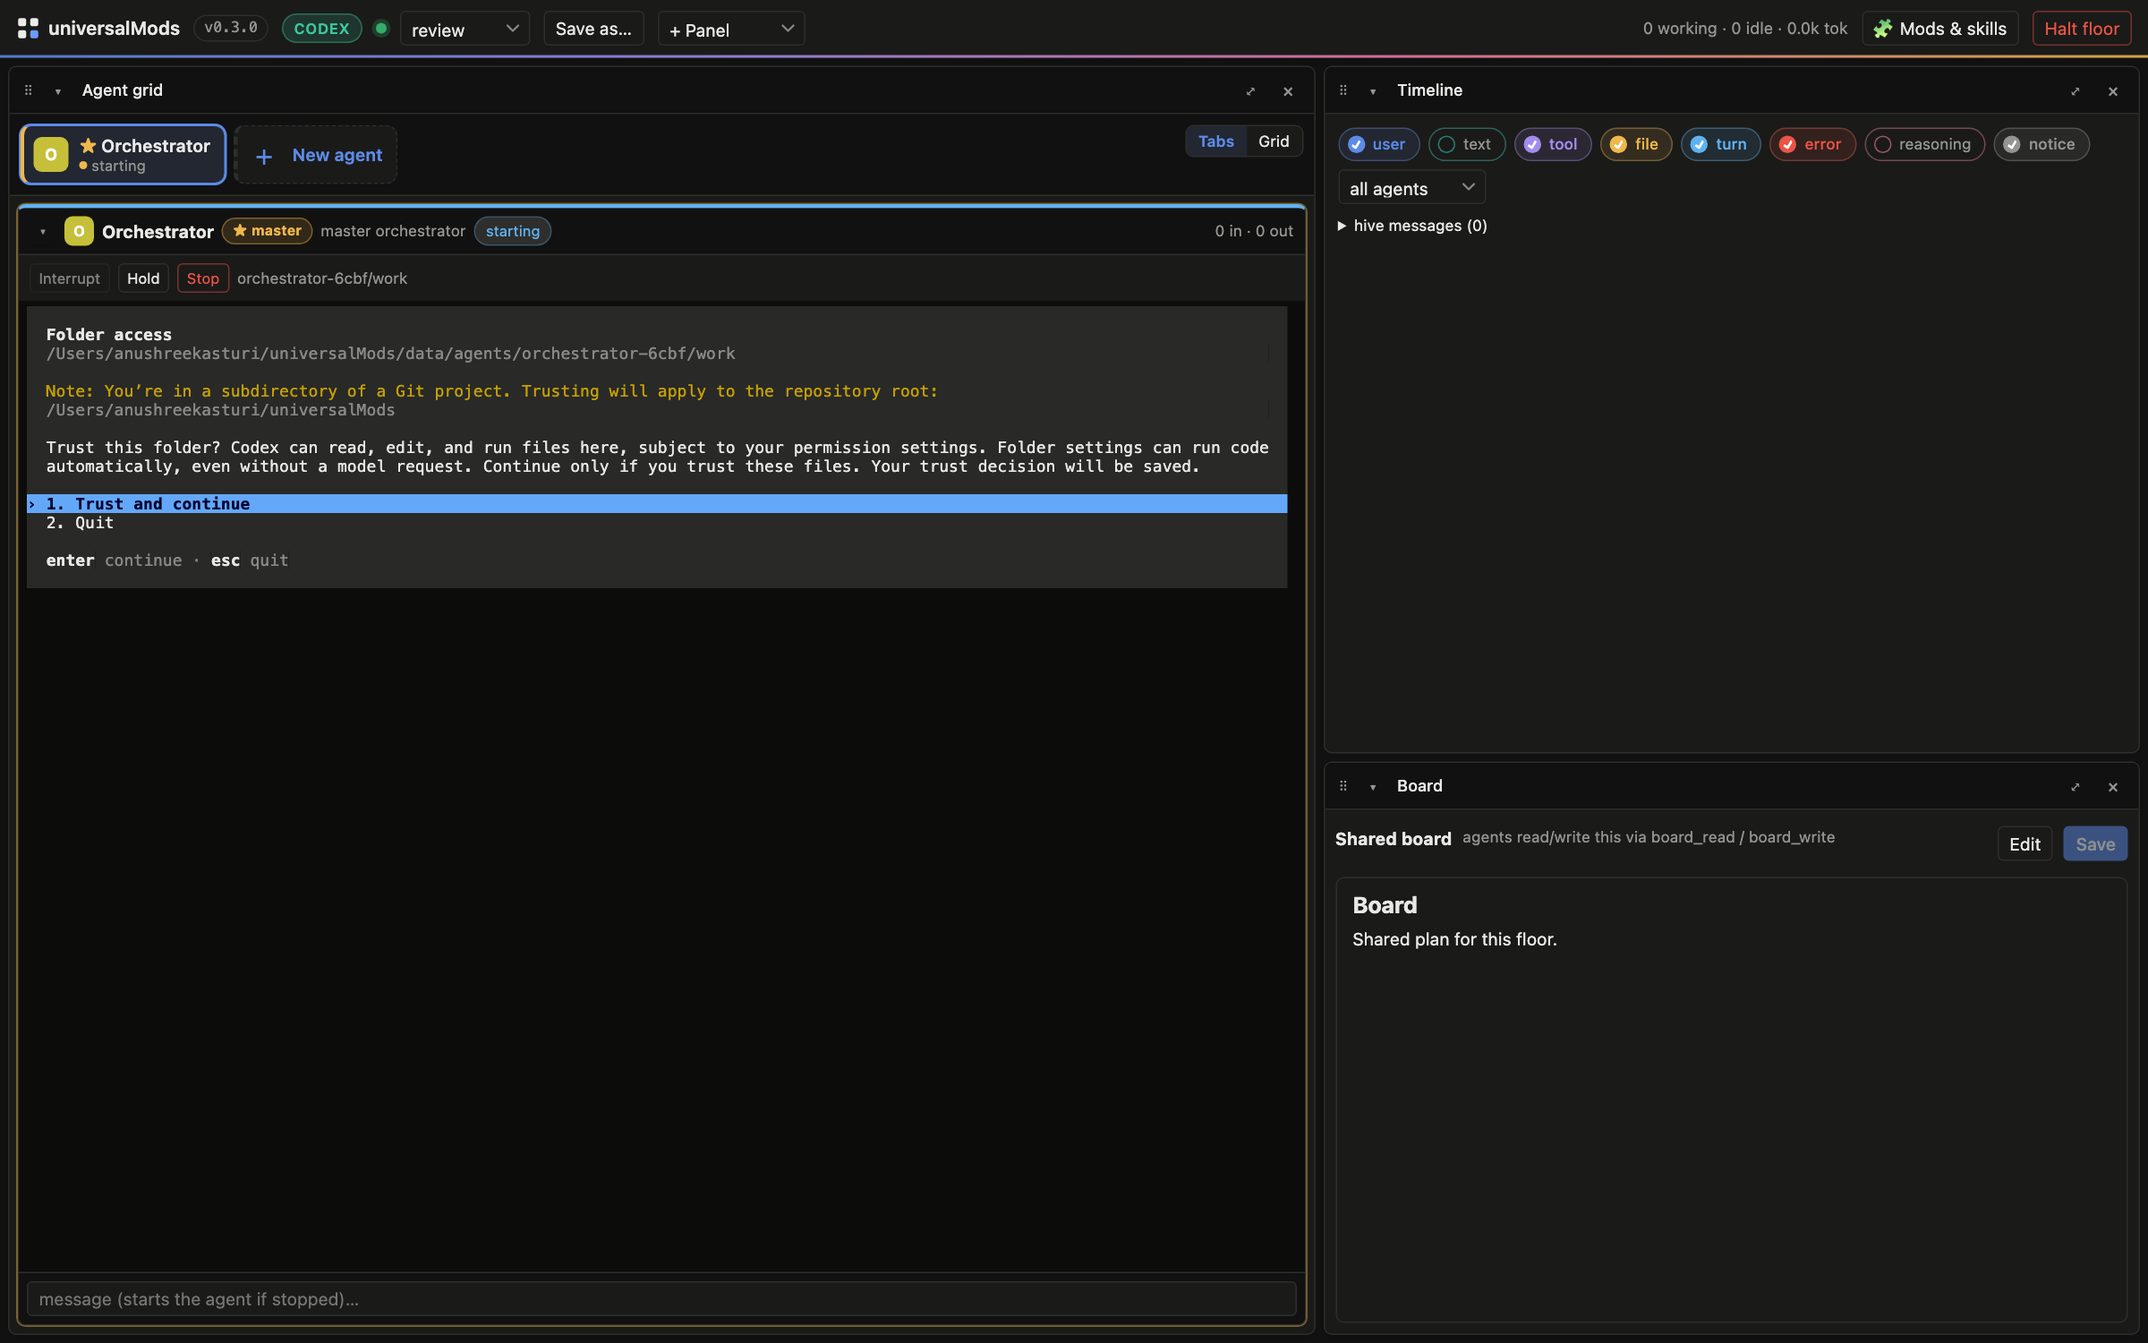
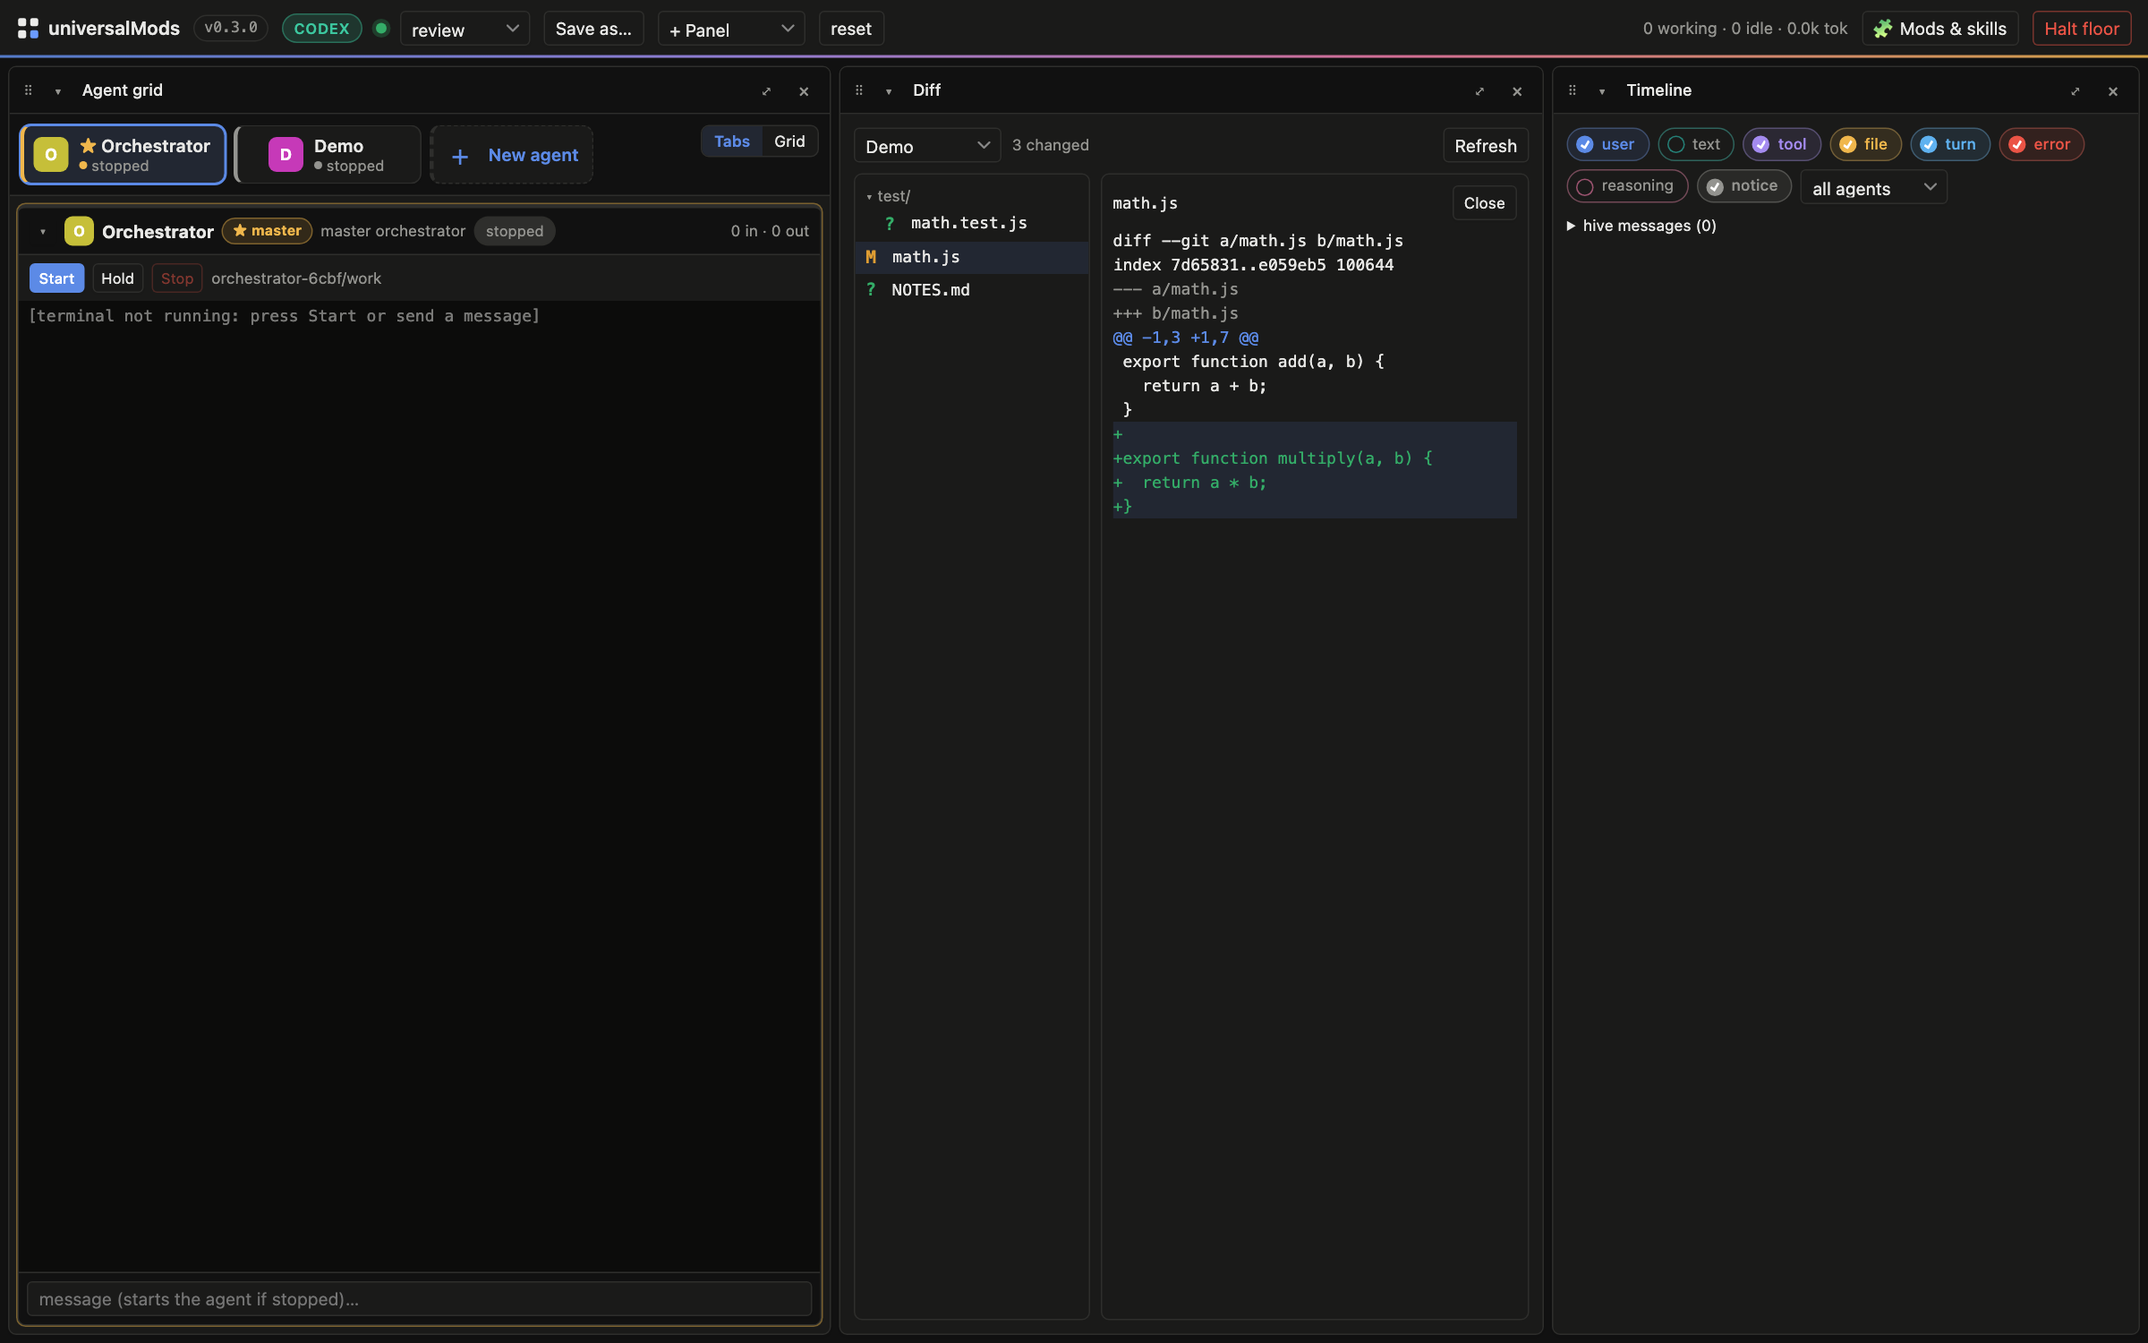
Add Diff mod and make it the core of the review layout
The review preset now shows the agent terminal, a Diff view and the
timeline, so it helps with reviewing changes rather than only
rearranging views.

mods/diff:
- Changed-files tree (git status, A/M/D/? badges) for the selected
  agent's folder, scoped to that folder.
- Click a file to see its unified git diff (new files diff against
  /dev/null). Paths outside the agent folder are rejected.
- Refreshes when the agent changes files or finishes a turn.
- review_request agent tool: the agent asks for review, the view shows
  the request and switches to that agent.

Also: screenshot retaken with an agent's changes visible and no local
home path on screen; CHANGELOG updated.

diff --git a/mods/diff/client.tsx b/mods/diff/client.tsx
@@ -1,0 +1,222 @@
+// Diff view: an agent's changed files as a tree, with the unified diff of a clicked file.
+// The server pushes a fresh tree whenever the agent changes files; "review" is pushed when an agent asks for review.
+import { useEffect, useState } from 'react';
+import { floor, registerView, useFloor, useModChannel, type ViewProps } from 'universal-mods';
+
+interface Change {
+  path: string;
+  status: 'A' | 'M' | 'D' | 'R' | '?';
+}
+interface Tree {
+  agentId: string;
+  cwd: string;
+  files: Change[];
+  error?: string;
+  at: number;
+}
+interface ReviewRequest {
+  agentId: string;
+  message: string;
+  at: number;
+}
+interface FileDiff {
+  path: string;
+  diff: string;
+}
+
+const press = <T,>(key: string, payload: unknown) => floor.press('diff', key, payload) as Promise<T>;
+const BADGE: Record<Change['status'], string> = { A: 'var(--ok)', '?': 'var(--ok)', M: 'var(--warn)', D: 'var(--bad)', R: 'var(--accent)' };
+
+/** Nested folders for the changed files, so the tree reads like the repo. */
+interface Dir {
+  dirs: Map<string, Dir>;
+  files: Change[];
+}
+function toTree(files: Change[]): Dir {
+  const root: Dir = { dirs: new Map(), files: [] };
+  for (const f of files) {
+    const parts = f.path.split('/');
+    let node = root;
+    for (const part of parts.slice(0, -1)) {
+      if (!node.dirs.has(part)) node.dirs.set(part, { dirs: new Map(), files: [] });
+      node = node.dirs.get(part)!;
+    }
+    node.files.push(f);
+  }
+  return root;
+}
+
+function TreeNode({ dir, depth, onOpen, active }: { dir: Dir; depth: number; onOpen: (p: string) => void; active?: string }) {
+  return (
+    <>
+      {[...dir.dirs].map(([name, child]) => (
+        <div key={`d:${name}`}>
+          <div className="small muted" style={{ paddingLeft: depth * 14 + 8, paddingTop: 4 }}>
+            ▾ {name}/
+          </div>
+          <TreeNode dir={child} depth={depth + 1} onOpen={onOpen} active={active} />
+        </div>
+      ))}
+      {dir.files.map((f) => (
+        <div
+          key={f.path}
+          onClick={() => onOpen(f.path)}
+          style={{
+            paddingLeft: depth * 14 + 8,
+            paddingTop: 3,
+            paddingBottom: 3,
+            cursor: 'pointer',
+            display: 'flex',
+            gap: 8,
+            alignItems: 'center',
+            background: active === f.path ? 'var(--accent-soft)' : undefined,
+          }}
+        >
+          <span style={{ color: BADGE[f.status], fontFamily: 'var(--mono)', fontWeight: 600, width: 12 }}>{f.status}</span>
+          <span style={{ fontFamily: 'var(--mono)', fontSize: 12, overflow: 'hidden', textOverflow: 'ellipsis', whiteSpace: 'nowrap' }}>
+            {f.path.split('/').pop()}
+          </span>
+        </div>
+      ))}
+    </>
+  );
+}
+
+function Diff({ text }: { text: string }) {
+  return (
+    <pre style={{ margin: 0, fontFamily: 'var(--mono)', fontSize: 12, lineHeight: 1.5, whiteSpace: 'pre', overflow: 'auto' }}>
+      {text.split('\n').map((line, i) => {
+        const color =
+          line.startsWith('+++') || line.startsWith('---') ? 'var(--muted)' : line.startsWith('+') ? 'var(--ok)' : line.startsWith('-') ? 'var(--bad)' : line.startsWith('@@') ? 'var(--accent)' : undefined;
+        return (
+          <div key={i} style={{ color, background: color === 'var(--ok)' ? 'var(--accent-soft)' : undefined }}>
+            {line || ' '}
+          </div>
+        );
+      })}
+    </pre>
+  );
+}
+
+function DiffView({ params, setParams }: ViewProps) {
+  const agents = useFloor((s) => s.agents).filter((a) => !a.archived);
+  const [agentId, setAgentId] = useState<string>(params.agentId ?? '');
+  // Default to a worker agent: the master orchestrator rarely edits files itself.
+  const selected = agents.find((a) => a.id === agentId) ?? agents.find((a) => !a.master) ?? agents[0];
+  const [tree, setTree] = useState<Tree>();
+  const [open, setOpen] = useState<FileDiff>();
+  const [error, setError] = useState<string>();
+  const [busy, setBusy] = useState(false);
+  const live = useModChannel<Tree>('diff', 'tree');
+  const review = useModChannel<ReviewRequest>('diff', 'review');
+  const [asked, setAsked] = useState<ReviewRequest>();
+
+  const scan = (id: string) => {
+    setBusy(true);
+    press<Tree>('scan', { agentId: id })
+      .then((t) => {
+        if (!Array.isArray(t?.files)) throw new Error('Could not read changes');
+        setTree(t);
+        setError(t.error);
+      })
+      .catch((e) => setError(String(e?.message ?? e)))
+      .finally(() => setBusy(false));
+  };
+
+  // Changing agent: load its changes and close the open file.
+  useEffect(() => {
+    setOpen(undefined);
+    setTree(undefined);
+    if (selected) scan(selected.id);
+  }, [selected?.id]);
+
+  // Live updates from the server for the agent on screen.
+  useEffect(() => {
+    if (live && live.agentId === selected?.id) {
+      setTree(live);
+      setError(live.error);
+    }
+  }, [live]);
+
+  // An agent asked for review: show it and switch to that agent.
+  useEffect(() => {
+    if (!review) return;
+    setAsked(review);
+    setAgentId(review.agentId);
+    setParams({ agentId: review.agentId });
+  }, [review]);
+
+  const choose = (id: string) => {
+    setAgentId(id);
+    setParams({ agentId: id });
+  };
+  const openFile = (path: string) => {
+    if (!selected) return;
+    press<FileDiff>('diff', { agentId: selected.id, path })
+      .then((d) => {
+        if (typeof d?.diff !== 'string') throw new Error(`Could not read ${path}`);
+        setOpen(d);
+      })
+      .catch((e) => setError(String(e?.message ?? e)));
+  };
+
+  const files = tree?.files ?? [];
+  const folder = toTree(files);
+
+  return (
+    <div className="pad" style={{ display: 'flex', flexDirection: 'column', gap: 8, height: '100%', minHeight: 0, boxSizing: 'border-box' }}>
+      <div style={{ display: 'flex', gap: 8, alignItems: 'center' }}>
+        <select value={selected?.id ?? ''} onChange={(e) => choose(e.target.value)} disabled={!agents.length}>
+          {!agents.length && <option value="">no agents</option>}
+          {agents.map((a) => (
+            <option key={a.id} value={a.id}>
+              {a.name}
+            </option>
+          ))}
+        </select>
+        <span className="small muted">{files.length ? `${files.length} changed` : ''}</span>
+        <span className="spacer" />
+        <button onClick={() => selected && scan(selected.id)} disabled={!selected || busy}>
+          {busy ? 'Scanning…' : 'Refresh'}
+        </button>
+      </div>
+
+      {asked && (
+        <div style={{ border: '1px solid var(--accent)', borderRadius: 6, padding: '6px 8px', background: 'var(--accent-soft)' }}>
+          <div className="small">
+            <strong>Review requested</strong> · {agents.find((a) => a.id === asked.agentId)?.name ?? 'an agent'}
+          </div>
+          <div className="small" style={{ whiteSpace: 'pre-wrap' }}>
+            {asked.message}
+          </div>
+          <button className="small" onClick={() => setAsked(undefined)} style={{ marginTop: 4 }}>
+            Dismiss
+          </button>
+        </div>
+      )}
+
+      {error && <div className="small" style={{ color: 'var(--bad)' }}>{error}</div>}
+
+      <div style={{ display: 'grid', gridTemplateColumns: open ? 'minmax(160px, 35%) 1fr' : '1fr', gap: 8, flex: 1, minHeight: 0 }}>
+        <div style={{ overflow: 'auto', border: '1px solid var(--line)', borderRadius: 6, padding: '4px 0' }}>
+          {!files.length && !error && <div className="small muted pad">{selected ? 'No changes yet.' : 'Spawn an agent to see its changes.'}</div>}
+          <TreeNode dir={folder} depth={0} onOpen={openFile} active={open?.path} />
+        </div>
+        {open && (
+          <div style={{ overflow: 'auto', border: '1px solid var(--line)', borderRadius: 6, padding: 8, minWidth: 0 }}>
+            <div style={{ display: 'flex', alignItems: 'center', gap: 8, marginBottom: 6 }}>
+              <span className="small" style={{ fontFamily: 'var(--mono)' }}>{open.path}</span>
+              <span className="spacer" />
+              <button className="small" onClick={() => setOpen(undefined)}>
+                Close
+              </button>
+            </div>
+            {open.diff ? <Diff text={open.diff} /> : <div className="small muted">No diff for this file.</div>}
+          </div>
+        )}
+      </div>
+    </div>
+  );
+}
+
+registerView({ id: 'diff', title: 'Diff', render: (p) => <DiffView {...p} /> });

diff --git a/mods/diff/server.ts b/mods/diff/server.ts
@@ -1,0 +1,128 @@
+// Diff mod: what an agent changed in its working directory.
+// - "scan" lists changed files (git status) and pushes the result to the view.
+// - "diff" returns the unified diff of one file.
+// - Scans run again when an agent changes files or finishes a turn.
+// - Agents can ask for review through the review_request tool.
+import { execFile } from 'node:child_process';
+import path from 'node:path';
+import { promisify } from 'node:util';
+import type { ModContext, Register } from 'universal-mods/server';
+
+const run = promisify(execFile);
+const MAX_DIFF = 200_000;
+const SCAN_DELAY_MS = 800;
+
+interface Change {
+  path: string;
+  status: 'A' | 'M' | 'D' | 'R' | '?';
+}
+interface Tree {
+  agentId: string;
+  cwd: string;
+  files: Change[];
+  error?: string;
+  at: number;
+}
+
+const git = (cwd: string, args: string[], okCodes = [0]) =>
+  run('git', ['-C', cwd, ...args], { maxBuffer: MAX_DIFF * 5 }).then(
+    (r) => r.stdout,
+    (err: { code?: number; stdout?: string; message: string }) => {
+      if (typeof err.code === 'number' && okCodes.includes(err.code)) return err.stdout ?? '';
+      throw new Error(err.message.split('\n')[0]);
+    },
+  );
+
+/** Maps the two-letter porcelain code to one badge. */
+function badge(code: string): Change['status'] {
+  if (code === '??') return '?';
+  if (code.includes('A')) return 'A';
+  if (code.includes('D')) return 'D';
+  if (code.includes('R')) return 'R';
+  return 'M';
+}
+
+async function scan($: ModContext, agentId: string): Promise<Tree> {
+  const agent = $.agent.get(agentId);
+  const tree: Tree = { agentId, cwd: agent?.cwd ?? '', files: [], at: Date.now() };
+  if (!agent) return { ...tree, error: 'unknown agent' };
+  try {
+    // Git reports paths from the repo root. "-- ." limits the list to this agent's folder, and the prefix
+    // turns the paths back into folder-relative ones for display.
+    const prefix = (await git(agent.cwd, ['rev-parse', '--show-prefix'])).trim();
+    // -z: NUL-separated, no quoting of unusual paths. A rename adds one extra entry for the old path.
+    const entries = (await git(agent.cwd, ['status', '--porcelain=v1', '-z', '--untracked-files=all', '--', '.'])).split('\0');
+    for (let i = 0; i < entries.length; i++) {
+      const e = entries[i];
+      if (e.length < 4) continue;
+      const code = e.slice(0, 2);
+      const file = e.slice(3);
+      tree.files.push({ path: file.startsWith(prefix) ? file.slice(prefix.length) : file, status: badge(code) });
+      if (code.includes('R') || code.includes('C')) i++;
+    }
+  } catch (err) {
+    tree.error = (err as Error).message;
+  }
+  $.ui.publish('tree', tree);
+  return tree;
+}
+
+/** Diff for one file in the agent's folder. Git commands run from the repo root, where the paths are relative. */
+async function diff($: ModContext, agentId: string, file: string) {
+  const agent = $.agent.get(agentId);
+  if (!agent) throw new Error('unknown agent');
+  const abs = path.resolve(agent.cwd, file);
+  if (!abs.startsWith(path.resolve(agent.cwd) + path.sep)) throw new Error('path is outside the agent folder');
+  const top = (await git(agent.cwd, ['rev-parse', '--show-toplevel'])).trim();
+  const rel = path.relative(top, abs);
+  const tracked = (await git(top, ['ls-files', '--error-unmatch', '--', rel], [0, 1])).length > 0;
+  // Tracked files diff against HEAD; new files diff against /dev/null (git exits 1 when there are differences).
+  const text = tracked
+    ? await git(top, ['diff', 'HEAD', '--no-color', '--', rel])
+    : await git(top, ['diff', '--no-index', '--no-color', '--', '/dev/null', rel], [0, 1]);
+  return { path: file, diff: text.length > MAX_DIFF ? `${text.slice(0, MAX_DIFF)}\n… diff truncated` : text };
+}
+
+export const register: Register = (on) => {
+  // Debounce: many file events in a burst cause one scan per agent.
+  const pending = new Map<string, boolean>();
+  const queue = ($: ModContext, agentId: string) => {
+    if (pending.get(agentId)) return;
+    pending.set(agentId, true);
+    $.clock.after(SCAN_DELAY_MS, () => {
+      pending.delete(agentId);
+      void scan($, agentId);
+    });
+  };
+
+  on('session.start', ($, _e, next) => {
+    $.tool.register(
+      {
+        name: 'review_request',
+        description: 'Ask the human to review your changes. Say what changed and what to look at.',
+        inputSchema: { type: 'object', properties: { message: { type: 'string' } }, required: ['message'] },
+      },
+      (args, caller) => {
+        const message = String(args.message ?? '').slice(0, 2000);
+        $.ui.publish('review', { agentId: caller.agentId, message, at: Date.now() });
+        $.ui.toast(`${caller.agentName} asked for review`, 'info');
+        void scan($, caller.agentId);
+        return 'review requested';
+      },
+    );
+    return next();
+  });
+
+  on('agent.event', (e) => e.event.kind === 'file' || (e.event.kind === 'turn' && e.event.phase !== 'start'), ($, e, next) => {
+    queue($, e.agent.id);
+    return next();
+  });
+
+  on('ui.press', { mod: 'diff' }, async ($, e) => {
+    const p = (e.payload ?? {}) as { agentId?: string; path?: string };
+    if (!p.agentId) throw new Error('agentId is required');
+    if (e.key === 'scan') return scan($, p.agentId);
+    if (e.key === 'diff') return diff($, p.agentId, String(p.path ?? ''));
+    throw new Error(`unknown key ${e.key}`);
+  });
+};

diff --git a/src/web/shell.tsx b/src/web/shell.tsx
@@ -120,17 +120,11 @@ const PRESETS: Record<string, Layout> = {
     { id: 'zen-m', size: 3, panes: [{ id: 'zen-term', view: 'grid', params: { mode: 'tabs' } }] },
     { id: 'zen-r', panes: [{ id: 'zen-timeline', view: 'timeline', collapsed: true }] },
   ],
-  // Code review: an agent's live terminal to read its work, with what it did and the shared board for review notes.
+  // Code review: an agent's live terminal, the changes it made (Diff), and what it did (timeline).
   review: [
-    { id: 'rv-a', size: 1.6, panes: [{ id: 'rv-term', view: 'grid', params: { mode: 'tabs' } }] },
-    {
-      id: 'rv-b',
-      size: 1,
-      panes: [
-        { id: 'rv-timeline', view: 'timeline', size: 1.2 },
-        { id: 'rv-board', view: 'board', size: 1 },
-      ],
-    },
+    { id: 'rv-a', size: 1.4, panes: [{ id: 'rv-term', view: 'grid', params: { mode: 'tabs' } }] },
+    { id: 'rv-b', size: 1.2, panes: [{ id: 'rv-diff', view: 'diff' }] },
+    { id: 'rv-c', size: 1, panes: [{ id: 'rv-timeline', view: 'timeline' }] },
   ],
 };
 

diff --git a/CHANGELOG.md b/CHANGELOG.md
@@ -10,7 +10,8 @@ Cut a release with `npm run release -- <patch|minor|major>`; pushing the tag pub
 - Landing page: hero demo loop, animated layouts showcase (morphing pane wireframe + crossfading screenshots), scroll-reveal motion, plugin install step.
 - Installable plugin: `.codex-plugin/plugin.json`, `.claude-plugin/plugin.json` + `marketplace.json`, and a `universalmods` skill for installing, running and driving a floor and writing mods.
 - Six new built-in layouts: `mission`, `deepdive`, `dashboard`, `planner`, `arcade`, `zen` (with screenshots in `docs/screenshots/layouts/`).
-- `review` built-in layout: an agent's live terminal beside the timeline and the shared board, for reviewing agent work.
+- `review` built-in layout: an agent's live terminal, its changes (Diff) and its timeline, for reviewing agent work.
+- **Diff mod** (`mods/diff`): changed files for an agent's working directory as a tree with A/M/D badges, the unified git diff of a clicked file, and a live refresh as the agent works. Agents can call `review_request` to ask for review.
 - Launch kit: demo video (`marketing/video/`, re-renderable), brand images and naming report (`marketing/brand/`), new README hero and OG image.
 
 ### Security
